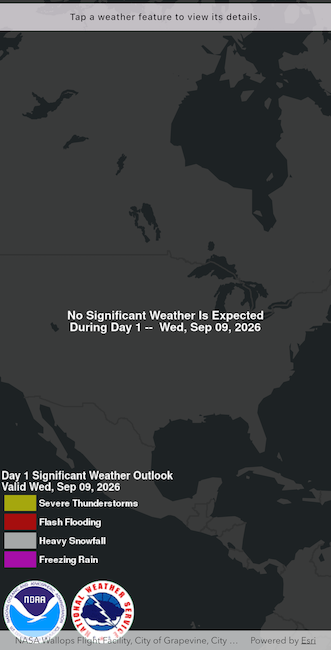
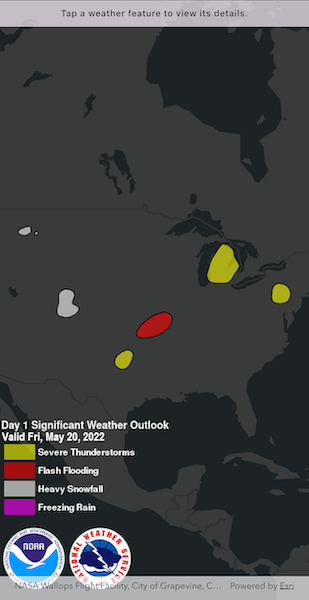
Update weather service (#593)

diff --git a/lib/samples/identify_kml_features/identify_kml_features.dart b/lib/samples/identify_kml_features/identify_kml_features.dart
@@ -34,7 +34,7 @@ class _IdentifyKmlFeaturesState extends State<IdentifyKmlFeatures>
   final _forecastLayer = KmlLayer(
     KmlDataset(
       Uri.parse(
-        'https://www.wpc.ncep.noaa.gov/kml/noaa_chart/WPC_Day1_SigWx_latest.kml',
+        'https://www.arcgis.com/sharing/rest/content/items/f5e0e5cd088846a5b97b7ed66a8bad5c/data',
       ),
     ),
   );
@@ -154,9 +154,8 @@ class _IdentifyKmlFeaturesState extends State<IdentifyKmlFeatures>
 
     // Create theme-aware styles for the KML balloon's HTML content.
     final colorScheme = Theme.of(context).colorScheme;
-    final defaultTextStyle = DefaultTextStyle.of(
-      context,
-    ).style.copyWith(color: colorScheme.onSurface);
+    final defaultTextStyle = DefaultTextStyle.of(context).style
+        .copyWith(color: colorScheme.onSurface);
     final overrideStyle = {
       for (final tag in const ['body', 'p', 'div', 'span', 'table', 'tr', 'td'])
         tag: TextStyle(color: colorScheme.onSurface),
